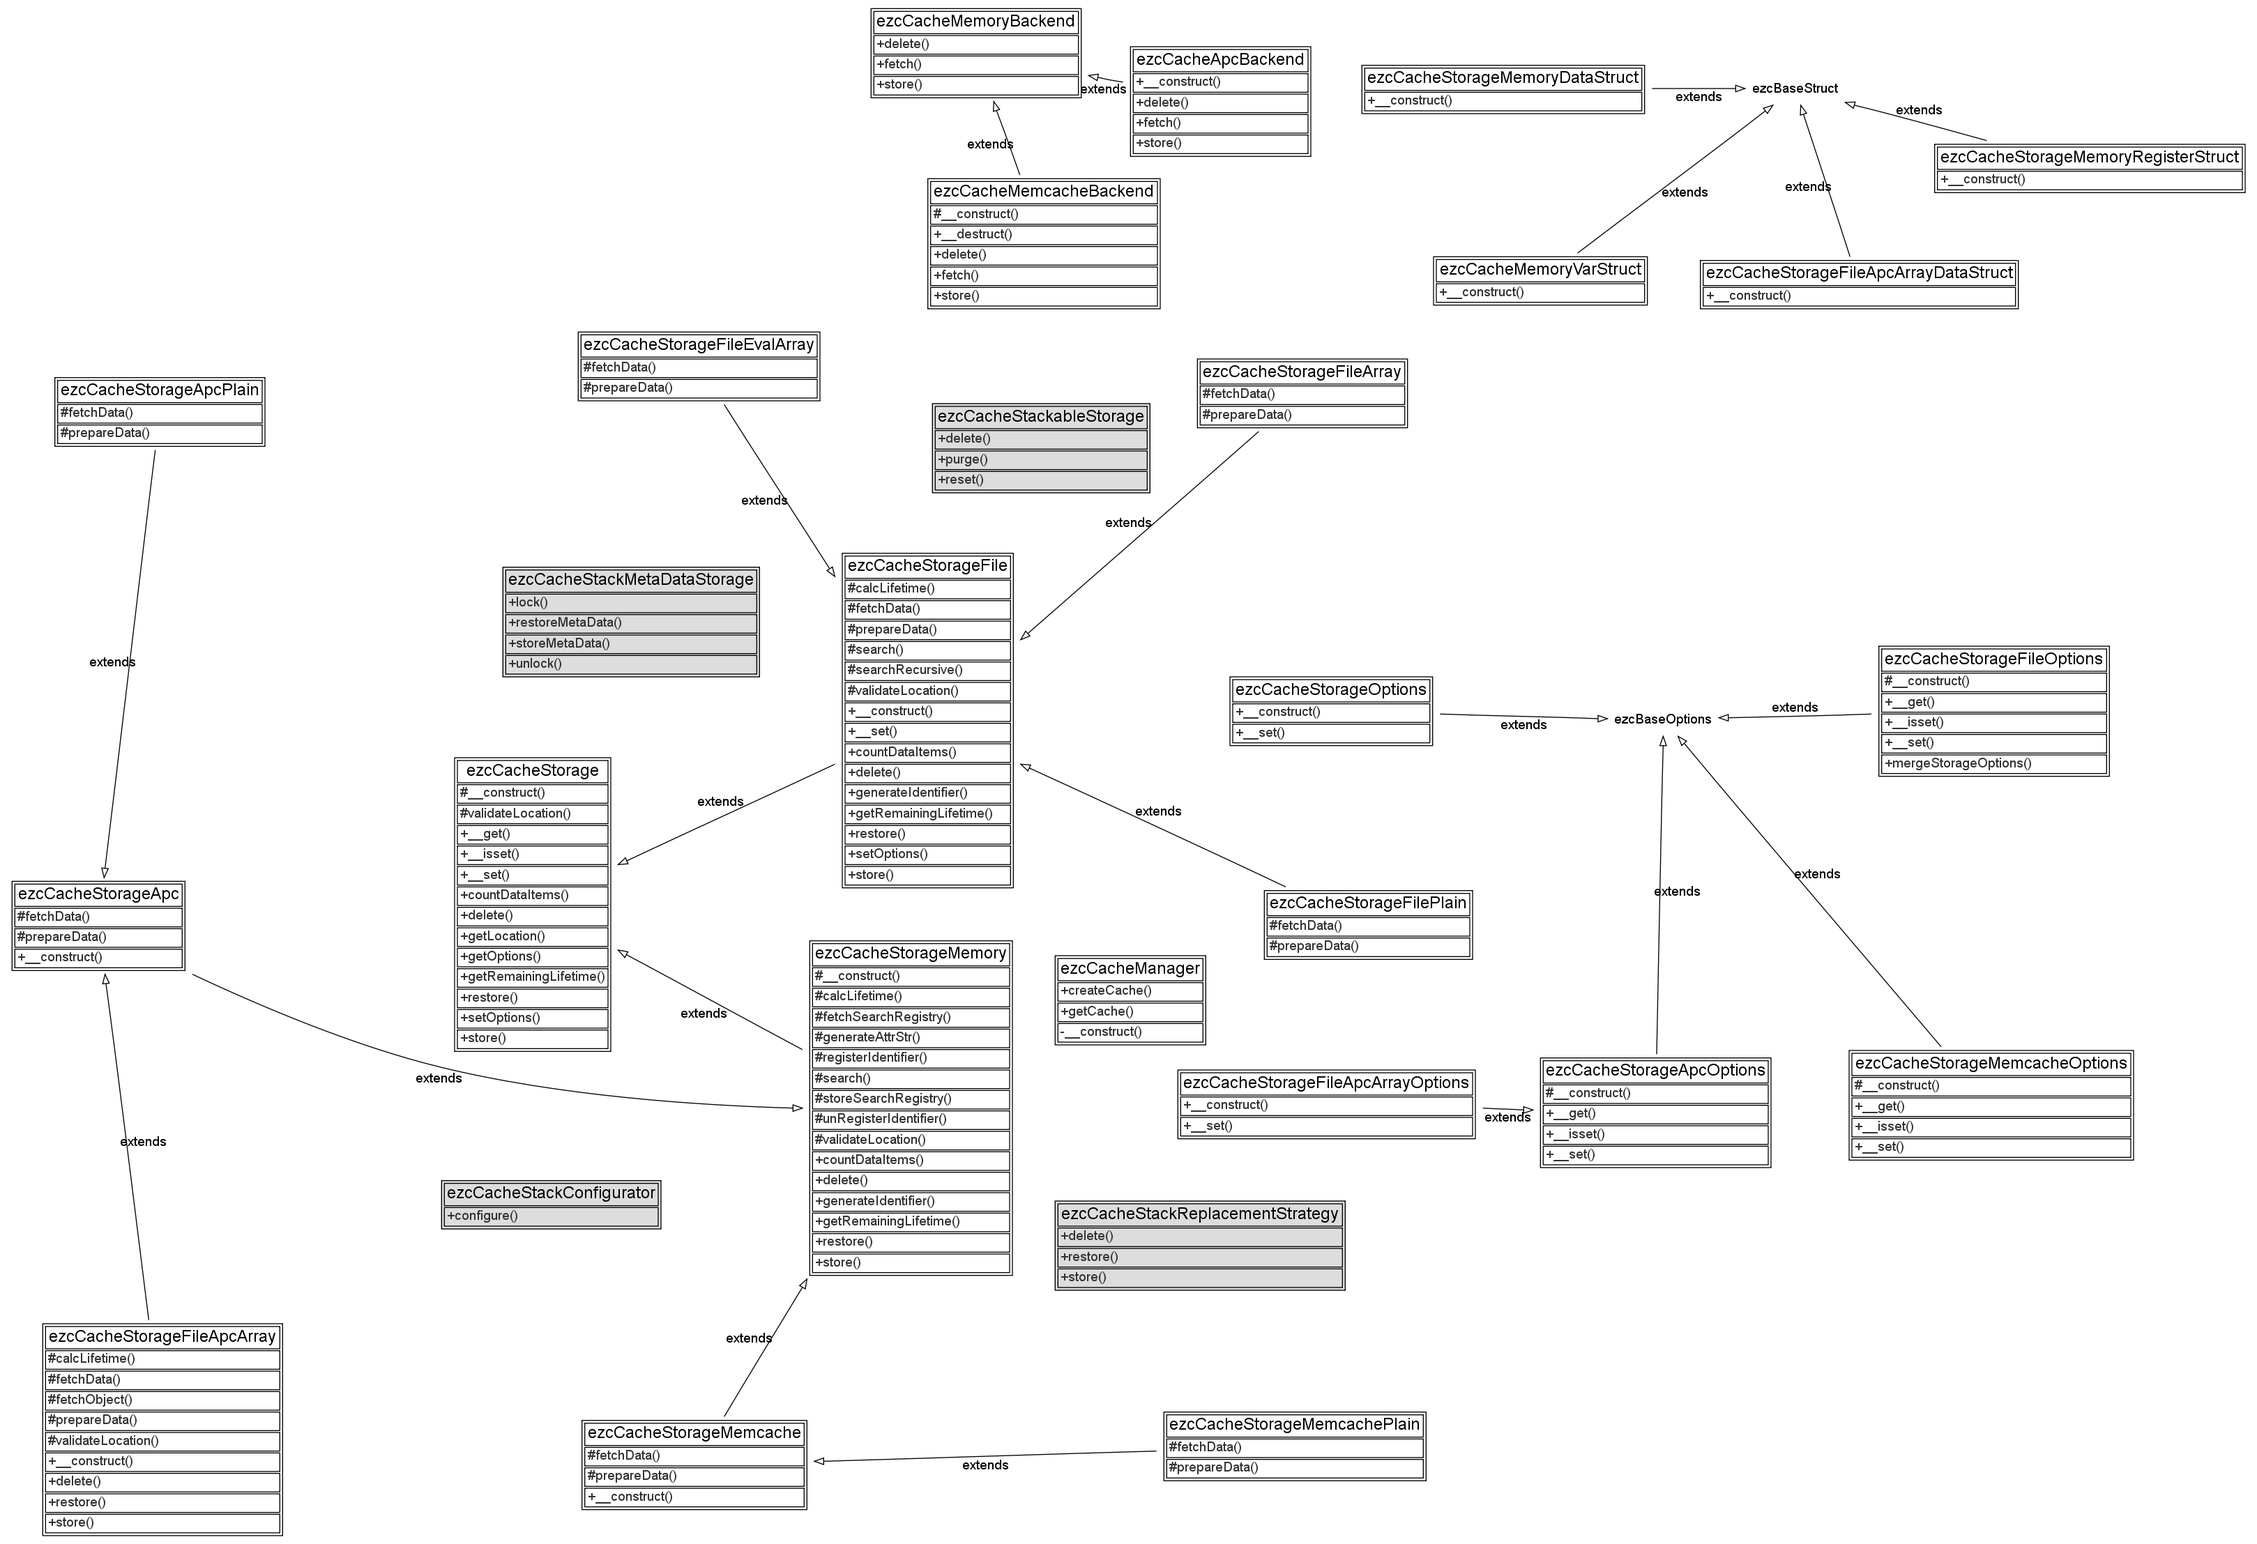
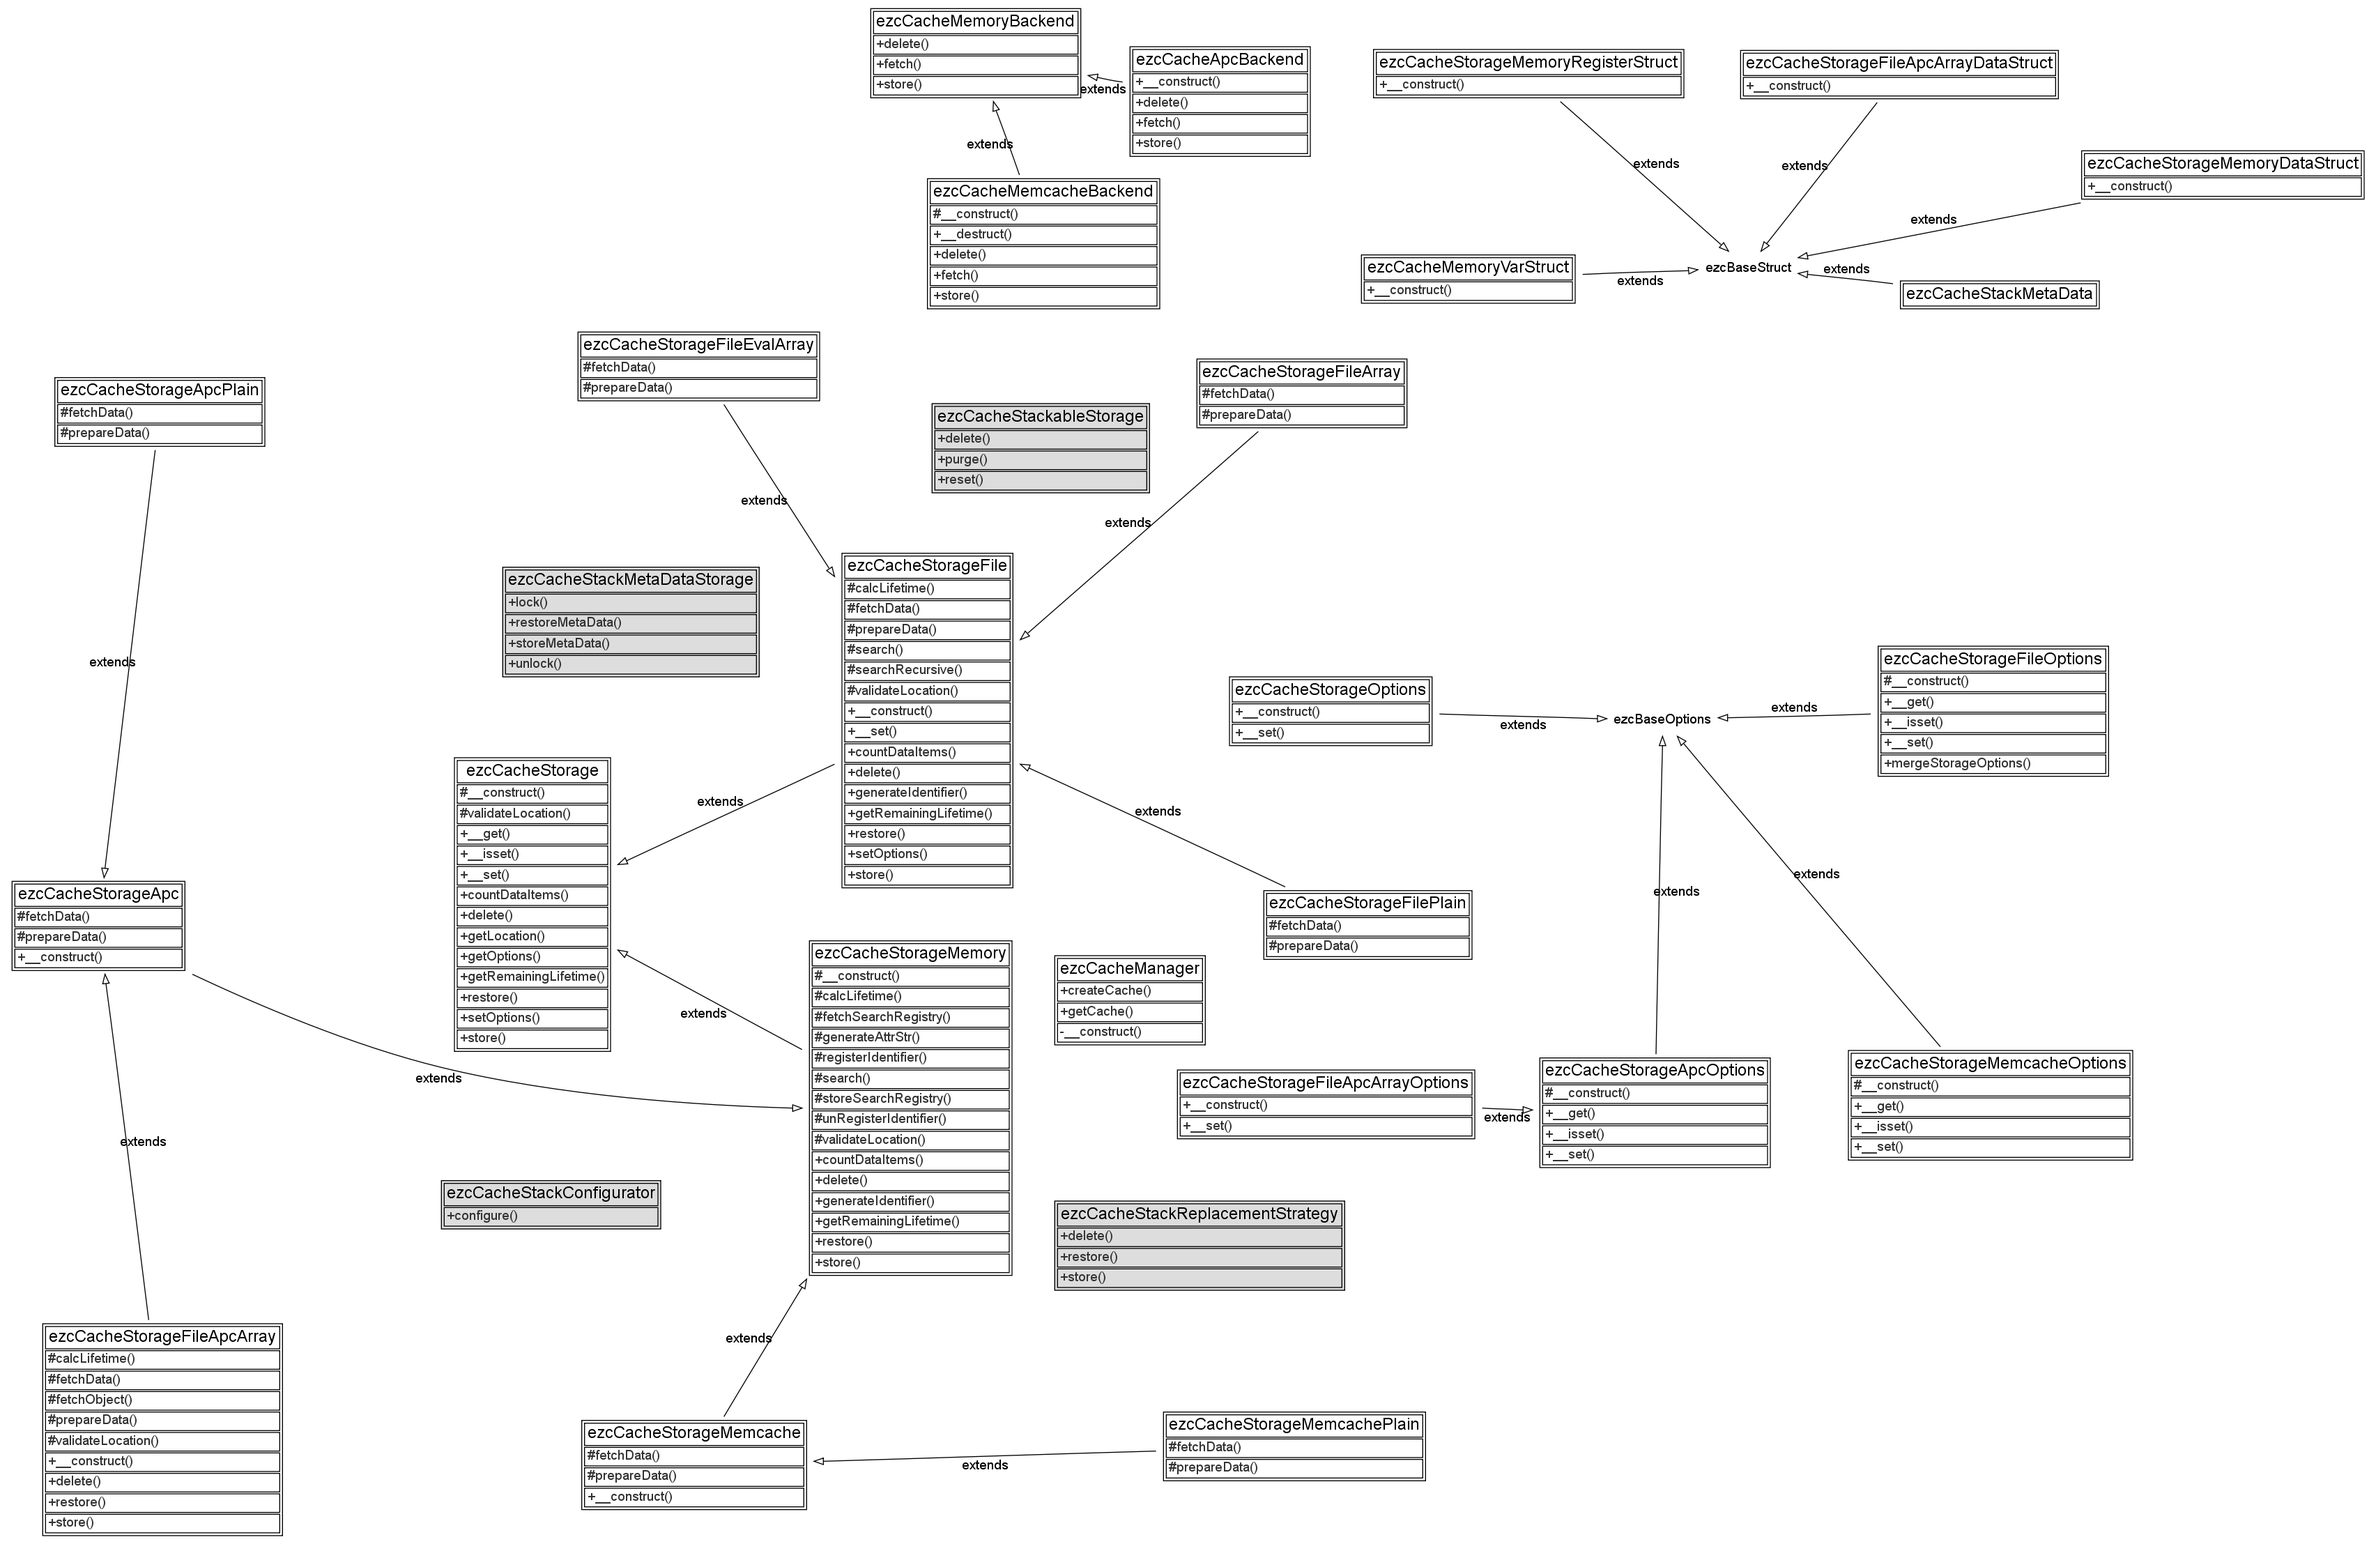
- Added ezcCacheStackMetaData struct. - Fixed some docs.
git-svn-id: http://svn.ez.no/svn/ezcomponents/trunk@7710 bc0e7bdc-f0fc-0310-8ff6-f601c06e1256

diff --git a/Cache/src/structs/meta_data.php b/Cache/src/structs/meta_data.php
@@ -1,0 +1,52 @@
+<?php
+/**
+ * File containing the ezcCacheMetaData struct.
+ *
+ * @package Cache
+ * @version //autogentag//
+ * @copyright Copyright (C) 2005-2008 eZ systems as. All rights reserved.
+ * @license http://ez.no/licenses/new_bsd New BSD License
+ * @filesource
+ */
+
+/**
+ * Struct represnting meta data for a ezcCacheStackReplacementStrategy.
+ *
+ * This struct is stored and restored by {@link ezcCacheStackMetaDataStorage}
+ * storages and used by a {@link ezcCacheStackReplacementStrategy}. The
+ * replacement strategy is identified through the {@link
+ * ezcCacheStackMetaData::$identifier}, which should be the class name of the
+ * replacement strategy. Replacement strategies need this identifier to check
+ * that the data in {@link ezcCacheStackMetaData::$data} is computable. The
+ * $data can by any arbitrary array structure, which does not include objects
+ * and resources.
+ * 
+ * @package Cache
+ * @version //autogentag//
+ */
+class ezcCacheStackMetaData extends ezcBaseStruct
+{
+    /**
+     * Identifier of the replacement strategy.
+     *
+     * The identifier of the {@link ezcCacheStackReplacementStrategy}. Used to
+     * check if the data stored in $data is computable.
+     * 
+     * @var string
+     */
+    public $identifier;
+
+    /**
+     * Meta data.
+     *
+     * The meta data for a {@link ezcCacheStackReplacementStrategy}. The
+     * strategy is identified by the $identifier. This may include any
+     * arbitrary data, except objects and resources. Usually, the nesting level
+     * and complexity of this array is quite high.
+     * 
+     * @var array(mixed)
+     */
+    public $data = array();
+}
+
+?>

diff --git a/Cache/src/cache_autoload.php b/Cache/src/cache_autoload.php
@@ -29,6 +29,7 @@ return array(
     'ezcCacheMemcacheBackend'               => 'Cache/backends/memcache/memcache_backend.php',
     'ezcCacheMemoryVarStruct'               => 'Cache/structs/memory_var.php',
     'ezcCacheStackConfigurator'             => 'Cache/interfaces/stack_configurator.php',
+    'ezcCacheStackMetaData'                 => 'Cache/structs/meta_data.php',
     'ezcCacheStackMetaDataStorage'          => 'Cache/interfaces/meta_data_storage.php',
     'ezcCacheStackReplacementStrategy'      => 'Cache/interfaces/replacement_strategy.php',
     'ezcCacheStackableStorage'              => 'Cache/interfaces/stackable_storage.php',

diff --git a/Cache/src/interfaces/meta_data_storage.php b/Cache/src/interfaces/meta_data_storage.php
@@ -1,6 +1,6 @@
 <?php
 /**
- * File containing the ezcCacheMetaDataStorage interface.
+ * File containing the ezcCacheStackMetaDataStorage interface.
  *
  * @package Cache
  * @version //autogentag//
